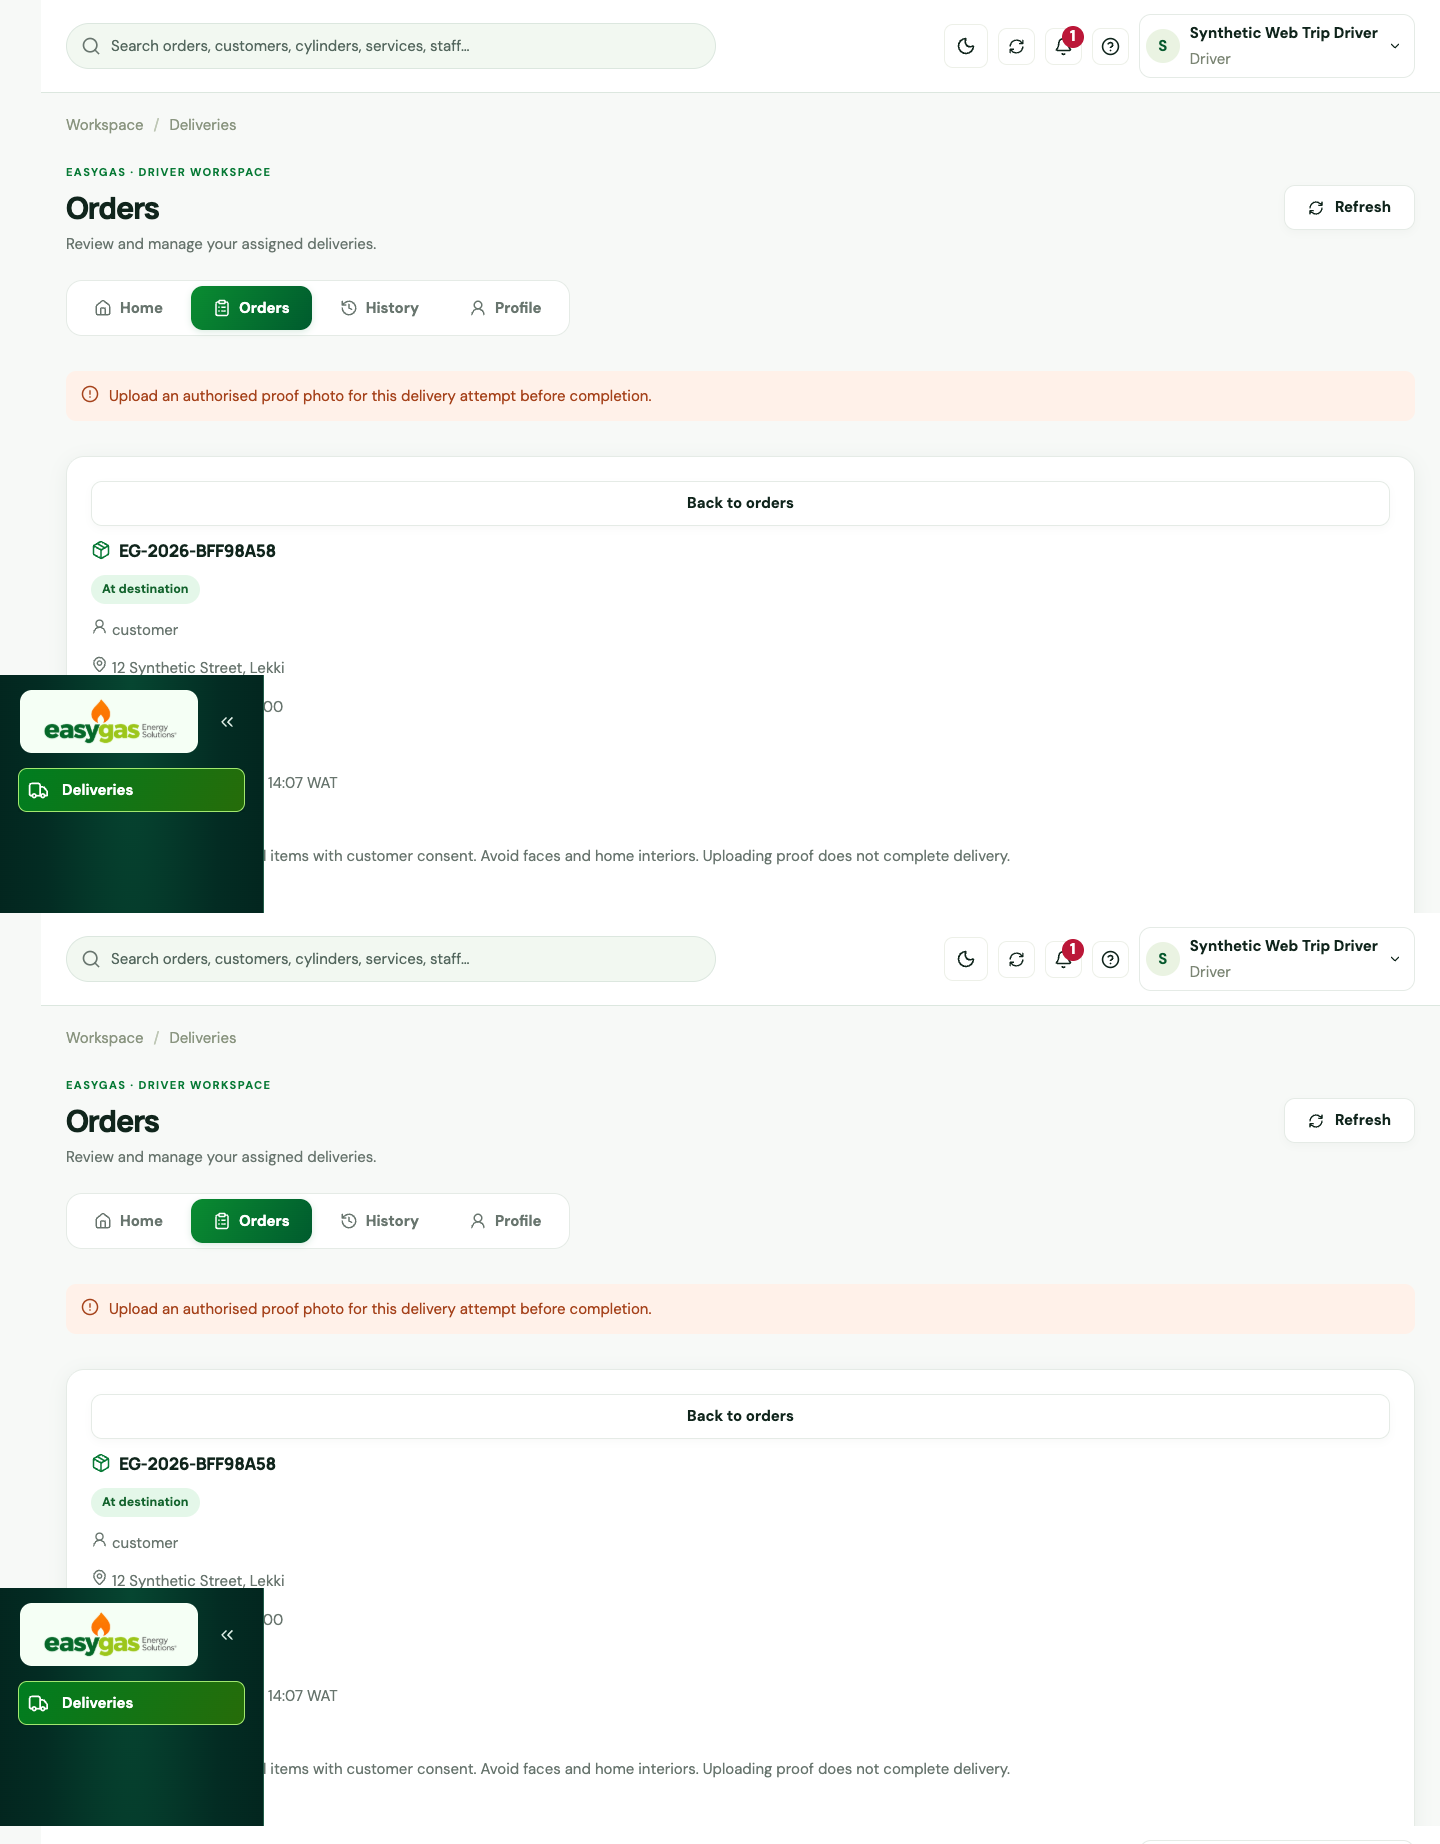
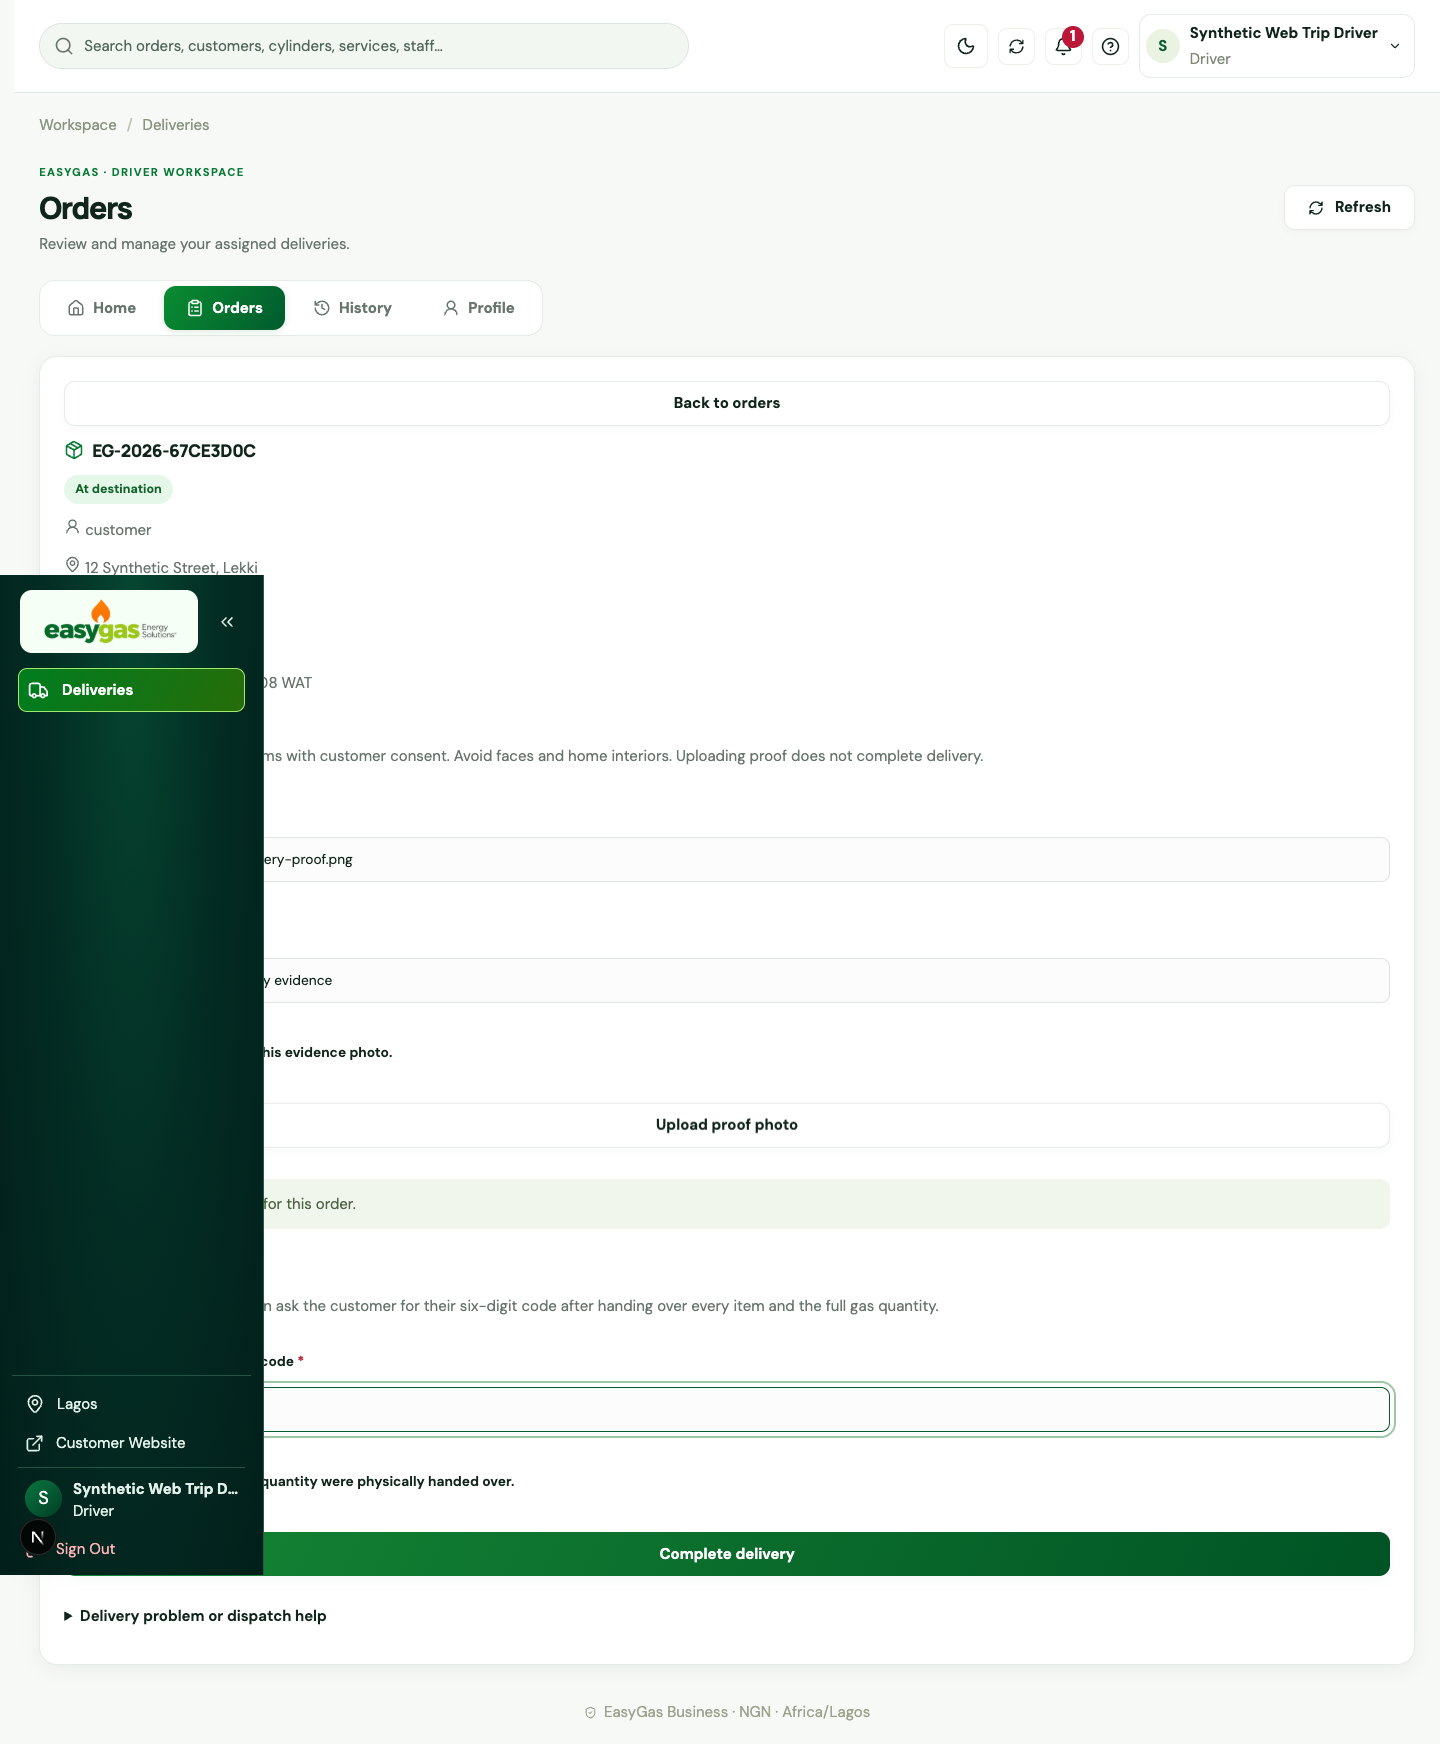
fix: clear resolved proof feedback after successful upload

diff --git a/apps/web/components/driver-experience.tsx b/apps/web/components/driver-experience.tsx
@@ -736,7 +736,10 @@ export default function DriverExperience({ userId }: { userId: string }) {
                     decision={response(current.id)}
                     disabled={busy || stale}
                     write={write}
-                    refresh={() => refresh()}
+                    refresh={async () => {
+                      setError("");
+                      await refresh();
+                    }}
                   />
                 </>
               ) : (
